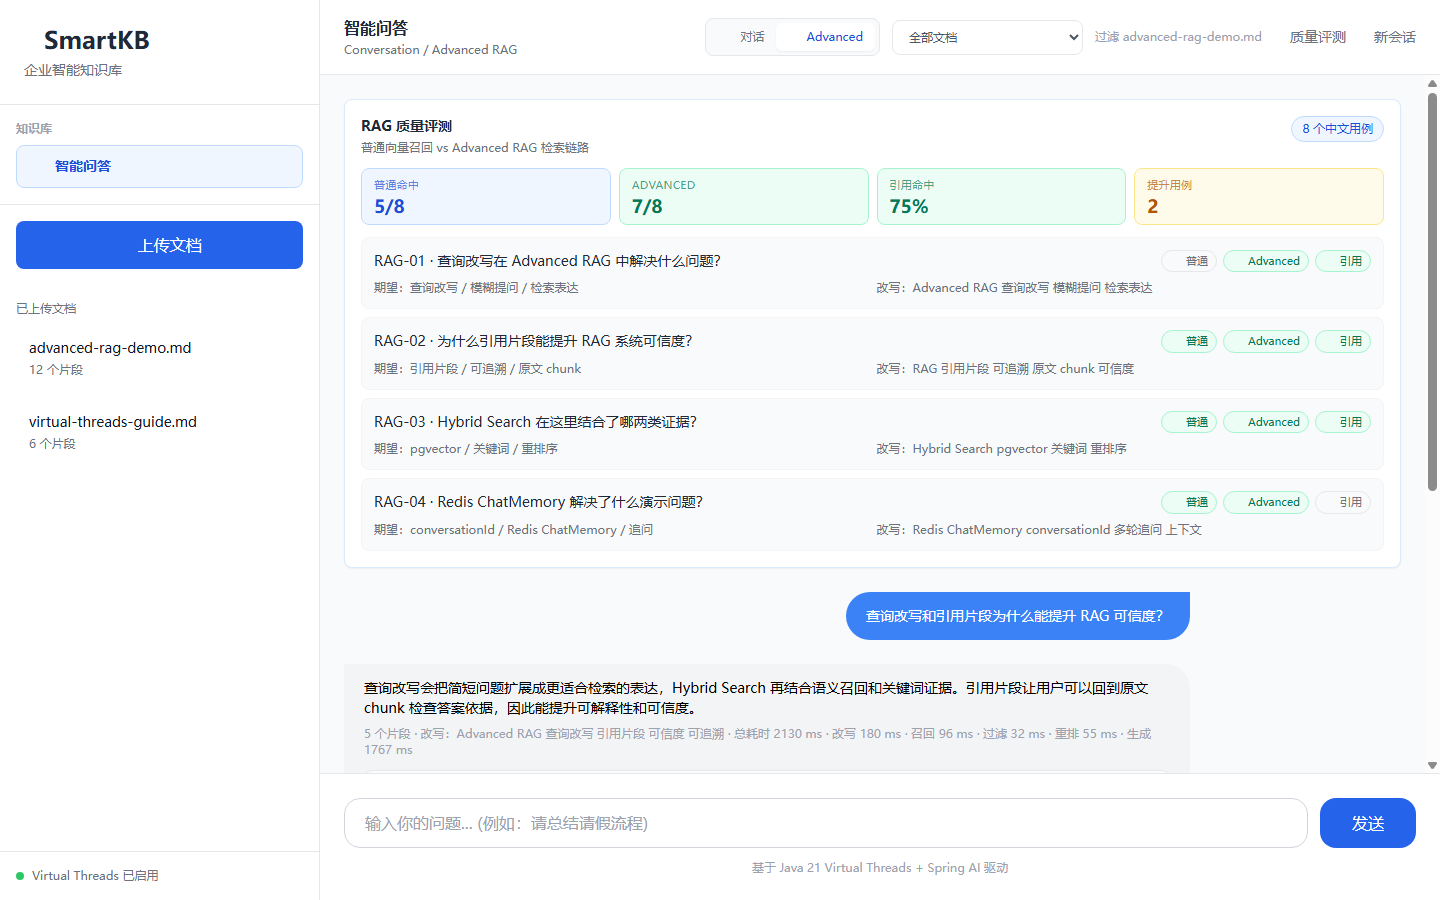
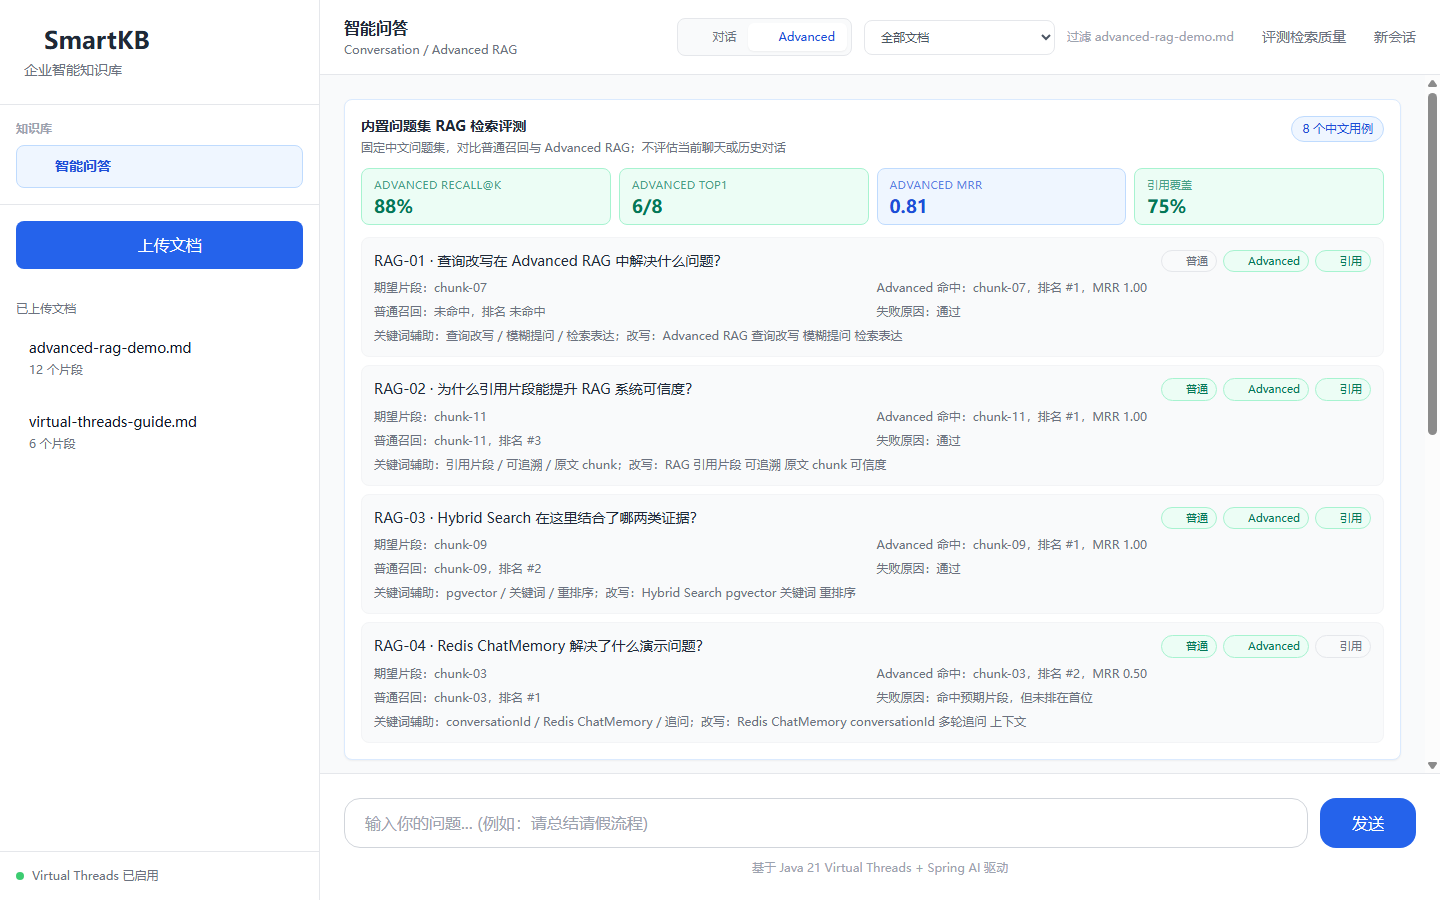
docs: refresh rag demo screenshots

diff --git a/HANDOFF.md b/HANDOFF.md
@@ -1,5 +1,44 @@
 # HANDOFF - SmartKB
 
+## Latest Snapshot - 2026-06-22 RAG Demo Screenshots
+
+Current goal:
+- Refresh GitHub README screenshots so the public demo shows the complete Chinese RAG flow, not optional Agent/workbench panels.
+
+Current stage:
+- Eight new desktop RAG screenshots were generated and visually checked.
+- README now points to RAG-specific screenshot filenames.
+- Old desktop screenshots with Agent/workbench-oriented filenames were removed.
+
+Recently completed:
+- Updated `scripts/smoke/workbench-desktop-screenshots.mjs` to generate RAG-specific files:
+  - `smartkb-01-upload-document.png`
+  - `smartkb-02-document-indexed.png`
+  - `smartkb-03-document-chunks.png`
+  - `smartkb-04-normal-rag-qa.png`
+  - `smartkb-05-follow-up-chat.png`
+  - `smartkb-06-advanced-rag.png`
+  - `smartkb-07-citation-jump.png`
+  - `smartkb-08-rag-quality-eval.png`
+- Updated the mocked RAG eval screenshot data to the v2 metrics: expected chunk, Recall@K, Top1, MRR, citation coverage, and failure reason.
+- Updated README image paths to the new RAG flow screenshots.
+
+Verified latest:
+- `node --check .\scripts\smoke\workbench-desktop-screenshots.mjs`: passed.
+- `node .\scripts\smoke\workbench-desktop-screenshots.mjs`: passed and generated 8 screenshots.
+- Visual inspection:
+  - upload screenshot shows one Chinese document upload, no duplicate upload.
+  - Advanced RAG screenshot shows Chinese question, query rewrite, retrieval/filter/rerank/generation stages.
+  - citation screenshot highlights `chunk-11` in document detail after reference click.
+  - eval screenshot clearly says fixed Chinese question set and not current chat/history, with Recall@K/Top1/MRR/citation coverage.
+
+Workspace status:
+- Working tree has uncommitted screenshot, README, script, and HANDOFF changes.
+- No files under `E:\project\work\job\smartkb-demo-output` are touched.
+
+Next step only:
+- Run README screenshot link check and `git diff --check`, then commit/push the screenshot refresh.
+
 ## Latest Snapshot - 2026-06-22 RAG Eval v2
 
 Current goal:
@@ -23,11 +62,11 @@ Verified latest:
 - `mvn test`: 115 tests passed.
 
 Workspace status:
-- Working tree has uncommitted RAG Eval v2 changes.
+- RAG Eval v2 was committed and pushed as `3330cdd feat: deepen rag retrieval evaluation`.
 - Do not commit temporary demo outputs under `E:\project\work\job\smartkb-demo-output`.
 
 Next step only:
-- Run `git diff --check`, review the final diff, then commit the RAG Eval v2 slice.
+- Refresh GitHub README screenshots for the v2 RAG flow.
 
 ## Latest Snapshot - 2026-06-21 RAG Quality Eval
 

diff --git a/README.md b/README.md
@@ -76,13 +76,13 @@ flowchart LR
 
 | 步骤 | 桌面横屏截图 |
 | --- | --- |
-| 1. 上传知识文档 | ![SmartKB 上传知识文档](docs/screenshots/desktop/smartkb-01-workbench-overview.png) |
-| 2. 上传后进入知识库 | ![SmartKB 文档入库](docs/screenshots/desktop/smartkb-02-advanced-rag.png) |
-| 3. 查看文档切片详情 | ![SmartKB 文档切片详情](docs/screenshots/desktop/smartkb-03-project-intake.png) |
-| 4. 普通 RAG 问答 | ![SmartKB 普通 RAG 问答](docs/screenshots/desktop/smartkb-04-agent-task.png) |
-| 5. 多轮追问 | ![SmartKB 多轮追问](docs/screenshots/desktop/smartkb-05-memory.png) |
-| 6. Advanced RAG 分阶段回答 | ![SmartKB Advanced RAG 分阶段回答](docs/screenshots/desktop/smartkb-06-code-context.png) |
-| 7. 点击引用片段定位原文 | ![SmartKB 引用片段定位原文](docs/screenshots/desktop/smartkb-07-eval-report.png) |
+| 1. 上传知识文档 | ![SmartKB 上传知识文档](docs/screenshots/desktop/smartkb-01-upload-document.png) |
+| 2. 上传后进入知识库 | ![SmartKB 文档入库](docs/screenshots/desktop/smartkb-02-document-indexed.png) |
+| 3. 查看文档切片详情 | ![SmartKB 文档切片详情](docs/screenshots/desktop/smartkb-03-document-chunks.png) |
+| 4. 普通 RAG 问答 | ![SmartKB 普通 RAG 问答](docs/screenshots/desktop/smartkb-04-normal-rag-qa.png) |
+| 5. 多轮追问 | ![SmartKB 多轮追问](docs/screenshots/desktop/smartkb-05-follow-up-chat.png) |
+| 6. Advanced RAG 分阶段回答 | ![SmartKB Advanced RAG 分阶段回答](docs/screenshots/desktop/smartkb-06-advanced-rag.png) |
+| 7. 点击引用片段定位原文 | ![SmartKB 引用片段定位原文](docs/screenshots/desktop/smartkb-07-citation-jump.png) |
 | 8. RAG 检索质量评测报告 | ![SmartKB RAG 检索质量评测报告](docs/screenshots/desktop/smartkb-08-rag-quality-eval.png) |
 
 截图为 `1440x900` 桌面横屏视口，按 RAG 演示主链路依次覆盖：上传中文测试文档、查看入库结果、打开文档 chunk 详情、普通问答、多轮追问、Advanced RAG 分阶段回答、点击引用片段定位到原文 chunk、RAG 检索质量评测报告。